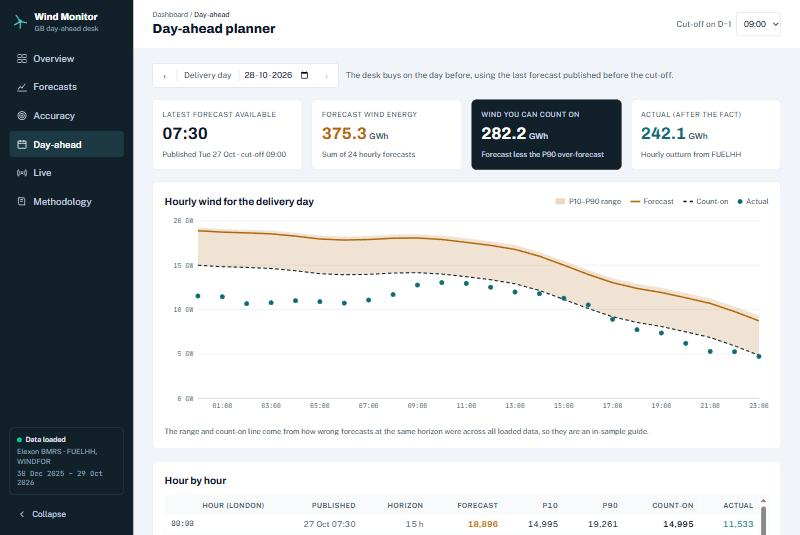
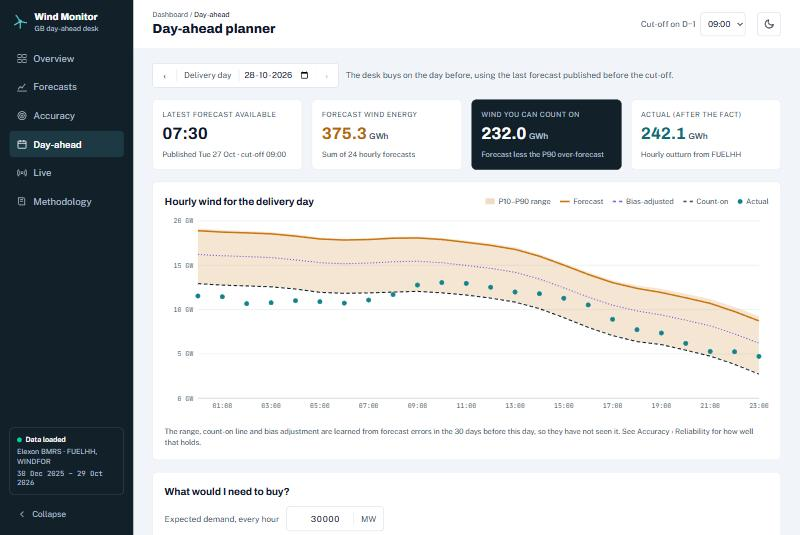
ci: build images and smoke-test the stack; docs: describe the new features

diff --git a/README.md b/README.md
@@ -13,8 +13,8 @@ A web app for a GB energy utility's day-ahead trading desk. It shows the latest 
 |---|---|
 | **Overview** | Headline error numbers, actual vs forecast for the last 7 days, how error grows with lead time, and a findings card computed from the data on screen. |
 | **Forecasts** | For any date range, the forecast that was available N hours before each hour next to actual output (chart or table). |
-| **Accuracy** | Summary metrics, error by horizon (0 to 48 h), by hour of day, and the error distribution with the ten worst misses. |
-| **Day-ahead** | For a delivery day: the last forecast published before the D-1 cut-off (07:00, 09:00 or 11:00 London), an hourly P10 to P90 range, and a conservative "wind you can count on" line. Shows actual output afterwards. |
+| **Accuracy** | Summary metrics, error by horizon (0 to 48 h), by hour of day, the error distribution with the ten worst misses, and **Reliability**: an out-of-sample test of the P10 to P90 range, the count-on line and a bias adjustment. |
+| **Day-ahead** | For a delivery day: the last forecast published before the D-1 cut-off (07:00, 09:00 or 11:00 London), an hourly P10 to P90 range, a bias-adjusted forecast, and a conservative "wind you can count on" line. A **demand what-if** turns that into power still to buy, and the hourly table downloads as CSV. Shows actual output afterwards. |
 | **Live** | Tomorrow's hourly forecast from the newest Elexon publish, fetched on demand and not stored. |
 | **Methodology** | The selection rule, the metrics and the assumptions in plain language. |
 
@@ -22,8 +22,12 @@ A web app for a GB energy utility's day-ahead trading desk. It shows the latest 
 
 ![Day-ahead planner](screenshots/day-ahead.jpg)
 
+![Reliability: does the correction hold out of sample?](screenshots/reliability.jpg)
+
 <details>
 <summary>More screenshots</summary>
+
+![Day-ahead planner in dark mode](screenshots/day-ahead-dark.jpg)
 
 ![Accuracy by horizon](screenshots/accuracy-by-horizon.jpg)
 
@@ -72,8 +76,8 @@ cd ../frontend && npm install && npm run dev                                  # 
 ### Tests
 
 ```bash
-cd backend && python -m pytest -q     # 40 tests; needs the postgres container (docker compose up -d postgres)
-cd frontend && npx vitest run         # 14 tests
+cd backend && python -m pytest -q     # 45 tests; needs the postgres container (docker compose up -d postgres)
+cd frontend && npx vitest run         # 20 tests
 ```
 
 Backend tests run against a real Postgres, each in its own temporary schema, with `fakeredis` for the cache. Where possible the tests use small synthetic data with known answers (for example, one forecast that is always +200 MW off, so the expected MAE at each horizon is exactly known).
@@ -128,7 +132,7 @@ Browser ── React SPA ── /api/v1 ── FastAPI ──┬── PostgreSQ
 
 ### API (all under `/api/v1`)
 
-`GET /health` · `GET /meta/coverage` · `GET /generation/{actuals,forecasts,comparison}` · `GET /metrics/{summary,by-horizon,by-hour,distribution}` · `GET /day-ahead/{date}?cutoff=09:00` · `GET /live/day-ahead` · `POST /admin/ingest` (needs `X-Admin-Token`).
+`GET /health` · `GET /meta/coverage` · `GET /generation/{actuals,forecasts,comparison}` · `GET /metrics/{summary,by-horizon,by-hour,distribution,calibration}` · `GET /day-ahead/{date}?cutoff=09:00` · `GET /live/day-ahead` · `POST /admin/ingest` (needs `X-Admin-Token`).
 
 Time ranges are ISO-8601 UTC, end exclusive, capped at 45 days. Bad input returns a 422; exceeding the rate limit returns a 429 with `Retry-After`.
 
@@ -139,11 +143,14 @@ Time ranges are ISO-8601 UTC, end exclusive, capped at 45 days. Bad input return
 - The latest month is worse than January (MAE about 2.8 GW at 4 h).
 - **Data quality:** a few FUELHH half-hours are exactly 0 MW (4 of about 14,500), each isolated mid-day among smooth neighbours; the lowest genuine reading is about 400 MW. They are treated as missing values and dropped at ingest (and purged from earlier loads). Left in, one of them was the single largest "forecast miss".
 
+- **Out of sample, the range is optimistic.** Tested on the latest month with a 30-day learning window, the "80%" P10 to P90 range held the actual about 70% of the time, and the count-on line (meant to be reached 90% of the time) about 79%. Learning from all history instead gave only about 60%, because the forecast's steady offset drifts through the year (about +1.4 GW over the training months, +2.7 GW in the latest month). Removing the learned offset still cut MAE by about 28%.
+
 ## Assumptions and limits
 
 - The brief asks for decisions made in January 2026. The loaded history is wider so the date pickers and Live page are useful; January sits inside it and any January range can be selected.
-- The P10 to P90 range and the count-on line use errors measured on the same loaded data, so they are an in-sample guide, not a tested prediction interval.
-- No dark mode yet.
+- The P10 to P90 range, count-on line and bias adjustment are learned from forecast errors in the 30 days before the day shown, so they have not seen it. They are not guarantees: see **Accuracy > Reliability** for how often they held. Only when there is under a week of earlier data (the first days of the history) are they learned from all loaded data, and the page says so.
+- The demand what-if uses a flat demand you type in, because demand is not part of the Elexon data this app is limited to.
+- The date presets are **Latest month** and **Jan 2026**, the study window the brief asks for. A light/dark toggle is in the top bar.
 
 ## AI tools
 
